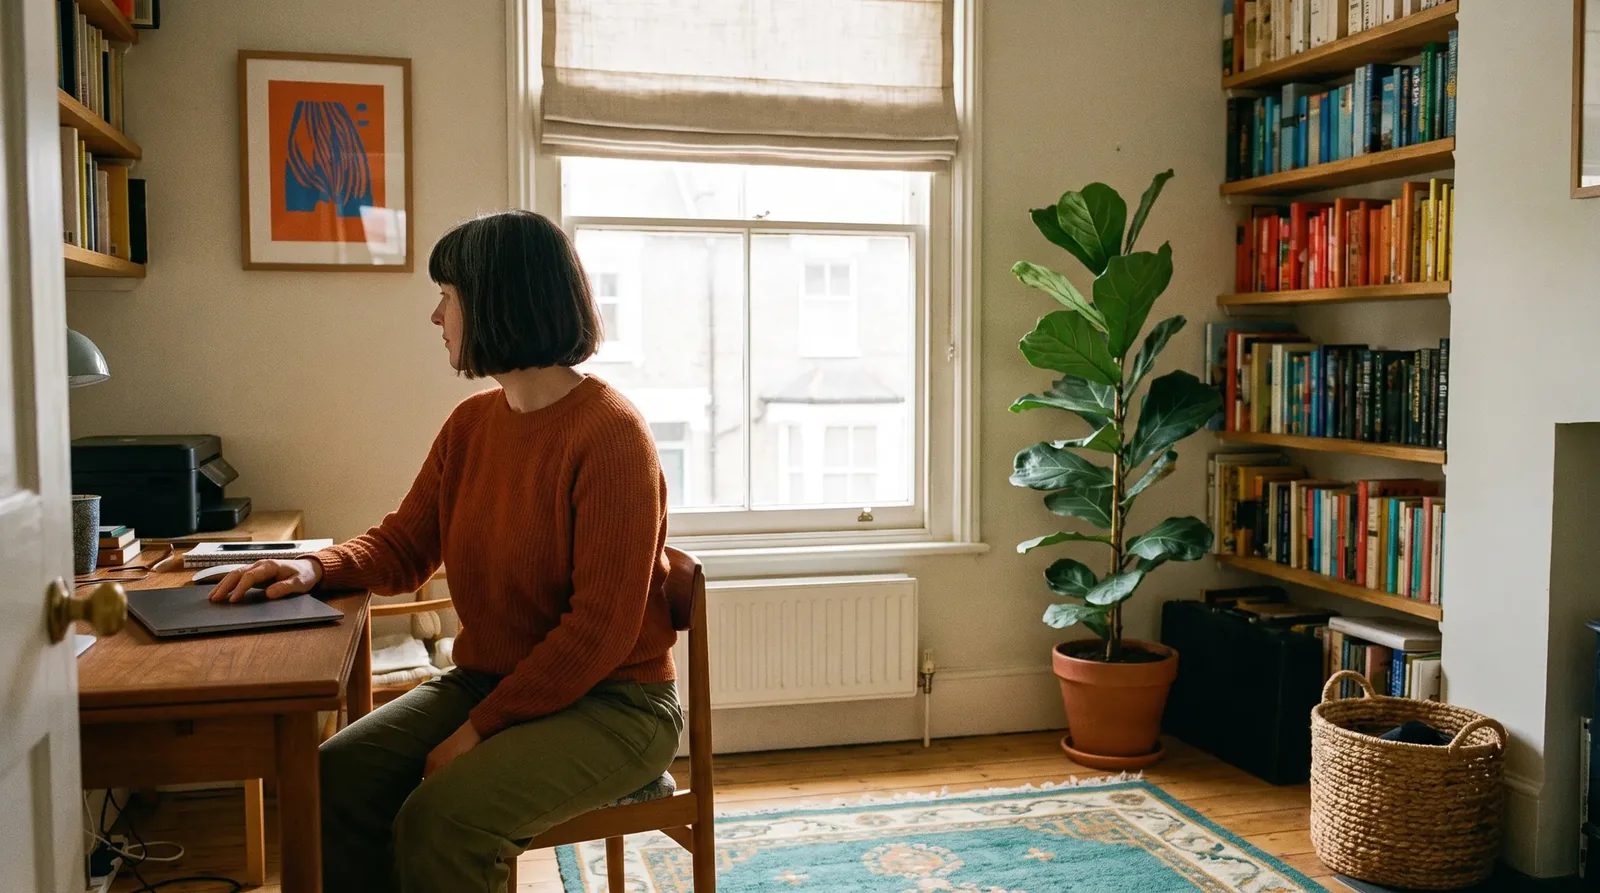
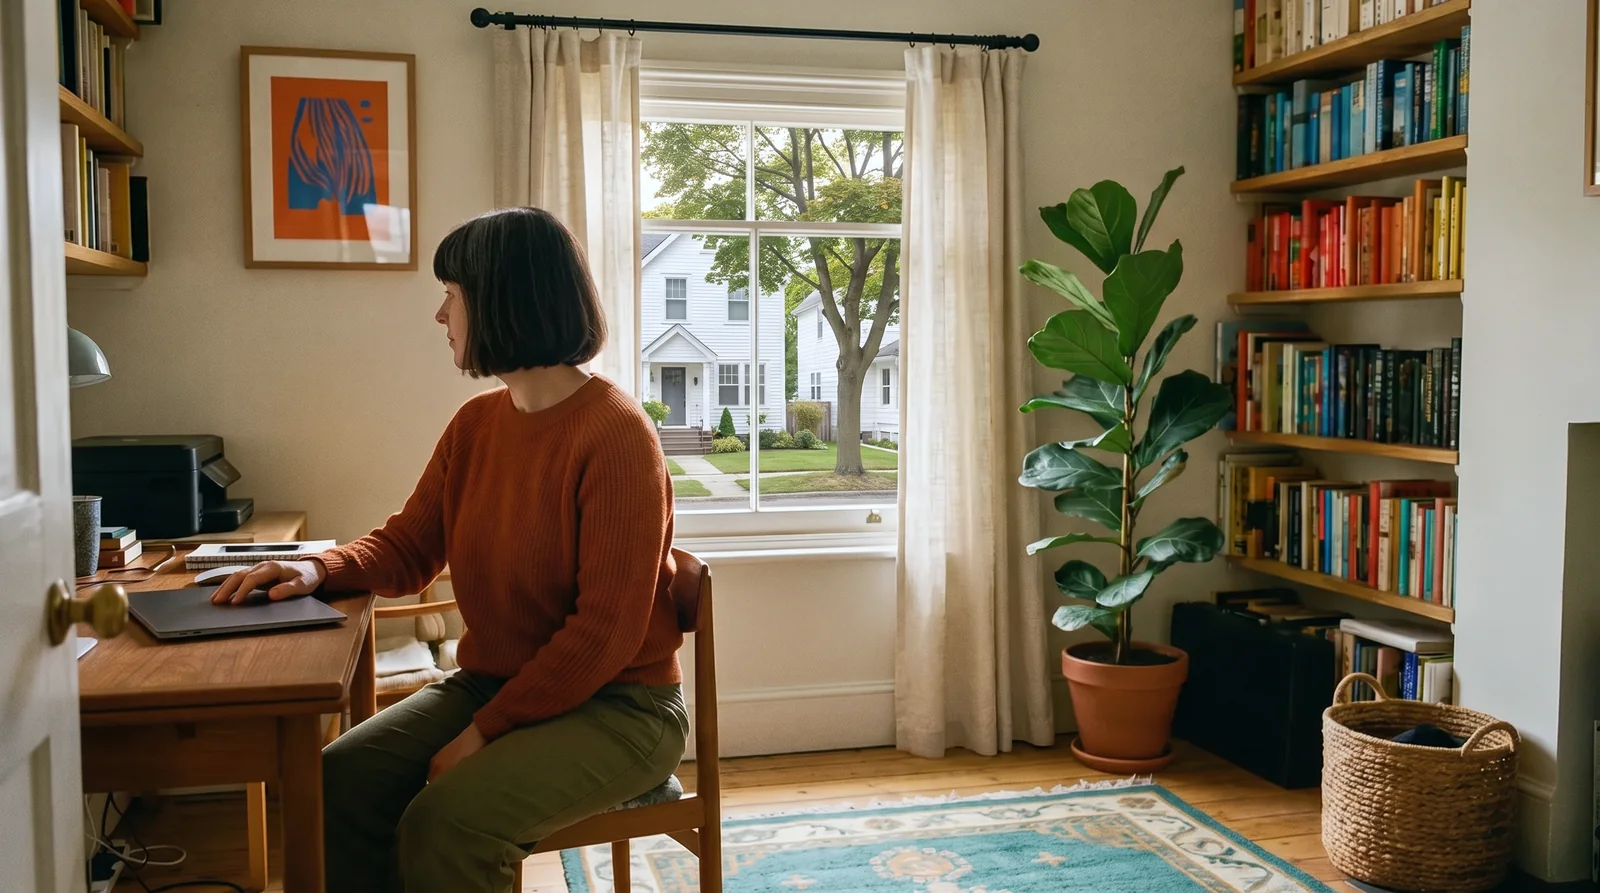
Severance at 52 photos: notebook not laptop, curtains, American street, no radiators

diff --git a/blog-pipeline/photos-completed/severance-at-52-what-next.md b/blog-pipeline/photos-completed/severance-at-52-what-next.md
@@ -4,7 +4,7 @@ post_title: "I Got a Severance Package at 52. What Do I Do With It? (2026)"
 slug: severance-at-52-what-next
 status: done
 cameron_processed: false
-note: "BUILDER TRACK, shot on ImagineArt Nano Banana Pro at 2K and delivered at 1600px webp. FTC rule holds: no legible text, no money, no clocks, laptop screens angled away or shut. ONE woman locked across the set: about 52, sleek dark bob with silver strands, gold hoops, rust orange jumper, olive chinos. THE ROOM is a bright modern home office in a spare bedroom: walnut desk under a sash window, white built-in shelves of colourful books, fiddle leaf fig, teal and ochre rug, orange and blue abstract print. Hero is her at the desk mid-morning, calm and capable, an ordinary working day before anything changed. VILLAIN CARRIES THE ARGUMENT with nobody in it: the same office at dusk, one lamp, laptop shut, chair pushed back and turned, and a work lanyard with a BLANK card coiled on the closed laptop. The pass she no longer needs. Brief asked for a cold mug, dropped per the no-coffee rule, the lanyard carries it better. Turning point has her closing the laptop with one hand and turning away, settled. BELONGING IS A NEW SETTING: two clearly different women on a wooden bench by a slow river, willows behind, one talking, one laughing (brief said kitchen table with coffee, changed per the vary-the-setting and no-coffee rules). Freedom is the warmest: her walking a meadow path at golden hour, hands free, face turned to the sun. First freedom attempt came back as a two-panel image and was reshot."
+note: "BUILDER TRACK, shot on ImagineArt Nano Banana Pro at 2K and delivered at 1600px webp. FTC rule holds: no legible text, no money, no clocks, laptop screens angled away or shut. ONE woman locked across the set: about 52, sleek dark bob with silver strands, gold hoops, rust orange jumper, olive chinos. THE ROOM is a bright modern home office in a spare bedroom: walnut desk under a sash window, white built-in shelves of colourful books, fiddle leaf fig, teal and ochre rug, orange and blue abstract print. Hero is her at the desk mid-morning, calm and capable, an ordinary working day before anything changed. VILLAIN CARRIES THE ARGUMENT with nobody in it: the same office at dusk, one lamp, laptop shut, chair pushed back and turned, and a work lanyard with a BLANK card coiled on the closed laptop. The pass she no longer needs. Brief asked for a cold mug, dropped per the no-coffee rule, the lanyard carries it better. Turning point has her closing the laptop with one hand and turning away, settled. BELONGING IS A NEW SETTING: two clearly different women on a wooden bench by a slow river, willows behind, one talking, one laughing (brief said kitchen table with coffee, changed per the vary-the-setting and no-coffee rules). Freedom is the warmest: her walking a meadow path at golden hour, hands free, face turned to the sun. First freedom attempt came back as a two-panel image and was reshot. Hero, villain and turning point fixed 2026-10-13 for an American home and the builder rules. All three had British sash windows looking onto a terraced street with only a roman blind, and the villain and turning point had a white radiator under the window. Now each window has cream linen curtain panels on a black rod and looks onto an American suburban street with white clapboard houses and a maple, and the radiators are plain wall and baseboard. The hero had her typing on an open laptop, a screen, so she now writes by hand in a paper notebook with nothing readable on the page, and a phone on the desk was painted out by hand. Measured R/B ramp: villain 0.94, hero 1.15, turning point 1.42, belonging 1.39 outdoors by the river, freedom 1.99."
 ---
 
 ### severanceat-hero-v1
